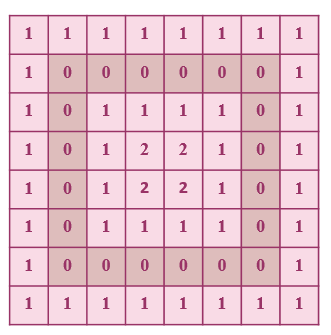
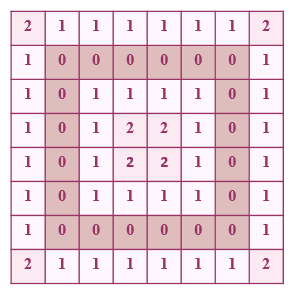
modify picture and readme

diff --git a/README.md b/README.md
@@ -21,21 +21,26 @@ _輸出_
 > 結果是不行的
 > ![](./image/idea.png)
 
-> 我的想法是一樣用scan line的方法來操作
-> 假設模型是NxM
-> 沿著+x軸方向發射一條ray，從y = 0開始到y= M-1
-> ray會把經過的外部點都設成負號，內部點及表面不變
-> Q 如何判斷是不是內部點?
-> A 當ray經過表面體素之後的點，都有可能成為內部
-> 所以要看"被掃描過的鄰居體素"有沒有在模型外部的，如果有此點就在模型外部
-> 如下圖深藍色框框為目前體素，淺藍色框框為"被掃過得鄰居體素"，由上述的想法，深藍色框框的體素應要設成負號
+我的想法是
+
+1. 考慮大小為 NxM 的模型。
+2. 沿著 +x 軸方向發射一條射線，從 y = 0 開始掃描至 y = M-1。
+3. 在掃描過程中，將射線經過的模型區域標記為外部點，設為負號，直到射線經過模型表面（距離值為 0 的體素）。
+4. 一旦射線經過模型表面，檢查每個體素的"被掃描過的鄰居體素"。
+5. 如果鄰居體素在模型外部，將該體素設為負號。
+6. 如果鄰居體素在模型內部，保持該體素正號不變。
+7. 沿著 -x  軸方向發射一條射線，從 y = M-1開始掃描至 y = 0。
+8. 重複步驟3~7
+9. 結束
+
+例子:深藍色框圈起的數字代表射線所經過的體素，淺藍色框圈起的體素代表該體素的"被掃描過的鄰居體素"。根據上述方法，深藍色框圈起的數字應該被改成負號。
 > ![](./image/myidea1.png)
 
 sudo code
 ```sh
 for(y = 0~M)
 	for(x = 0~N)
-		if(已遇到過表面體素){
+		if(射線經過模型表面){
 			if((data[y-1][x] 或 data[y][x-1] 在模型外部 ) 且 data[y][x]不是表面體素) 把data[y][x]設為模型外部
 		}	
 		else 把data[y][x]設為模型外部
